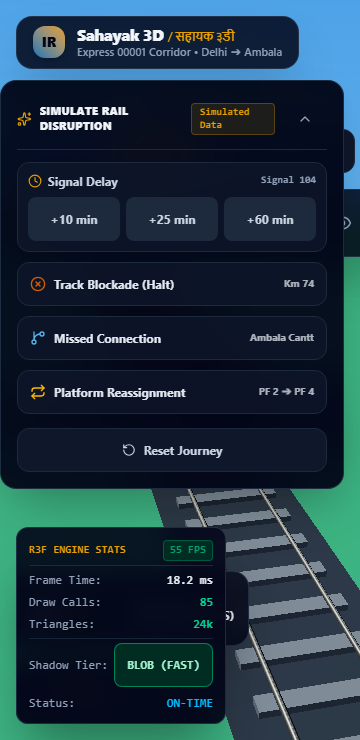
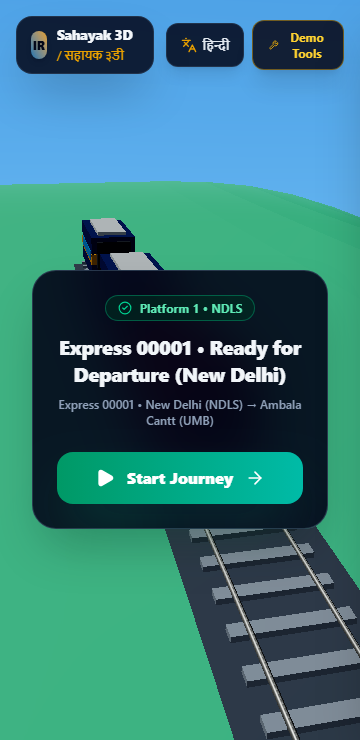
fix(a11y): correct heading order in FamilyShareModal and update multi-state audit suite

diff --git a/src/components/ui/FamilyShareModal.tsx b/src/components/ui/FamilyShareModal.tsx
@@ -191,9 +191,9 @@ export function FamilyShareModal({ isOpen, onClose }: FamilyShareModalProps) {
                     {t.familyVerifiedStatus}
                   </span>
                 </div>
-                <h4 className="text-sm font-extrabold text-white leading-tight">
+                <h3 className="text-sm font-extrabold text-white leading-tight">
                   {getFamilyStatusMessage()}
-                </h4>
+                </h3>
                 <p className="text-[11px] text-slate-300 mt-1">
                   {t.familyCoachSeat}
                 </p>
